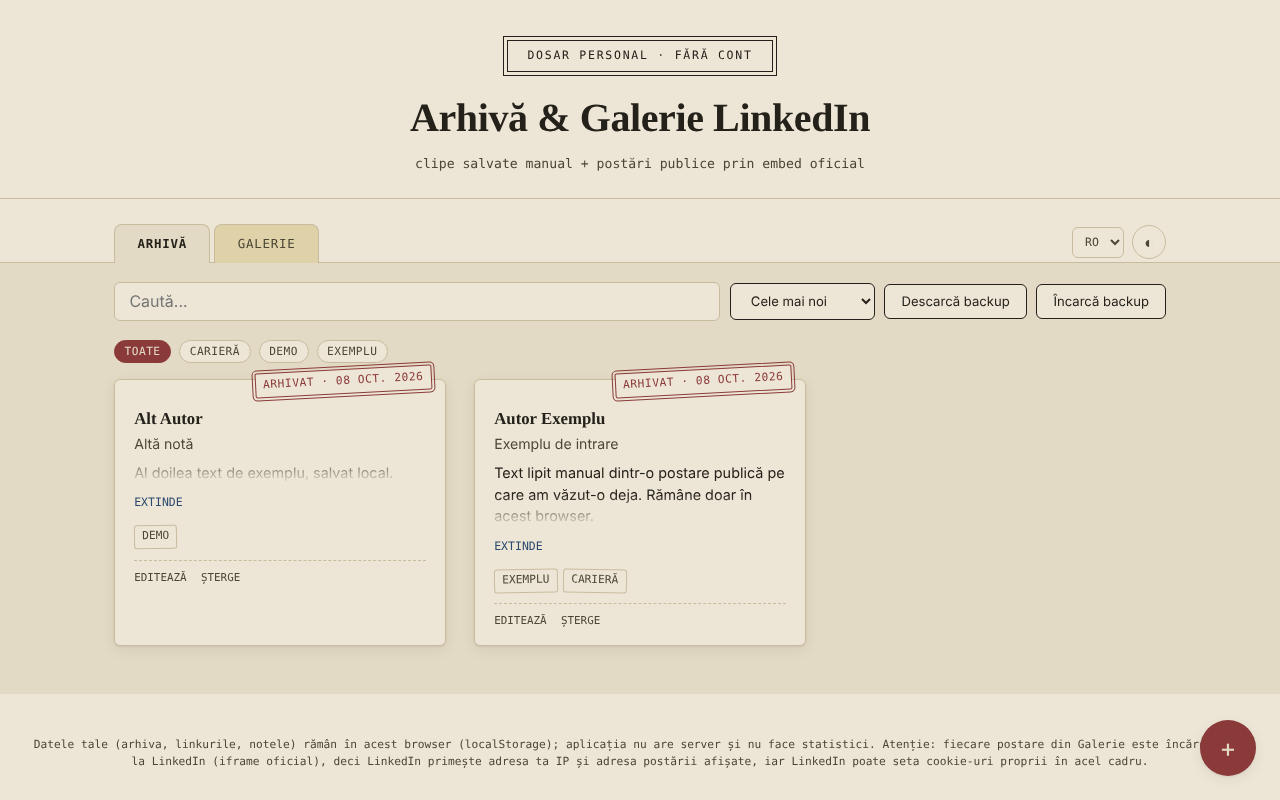
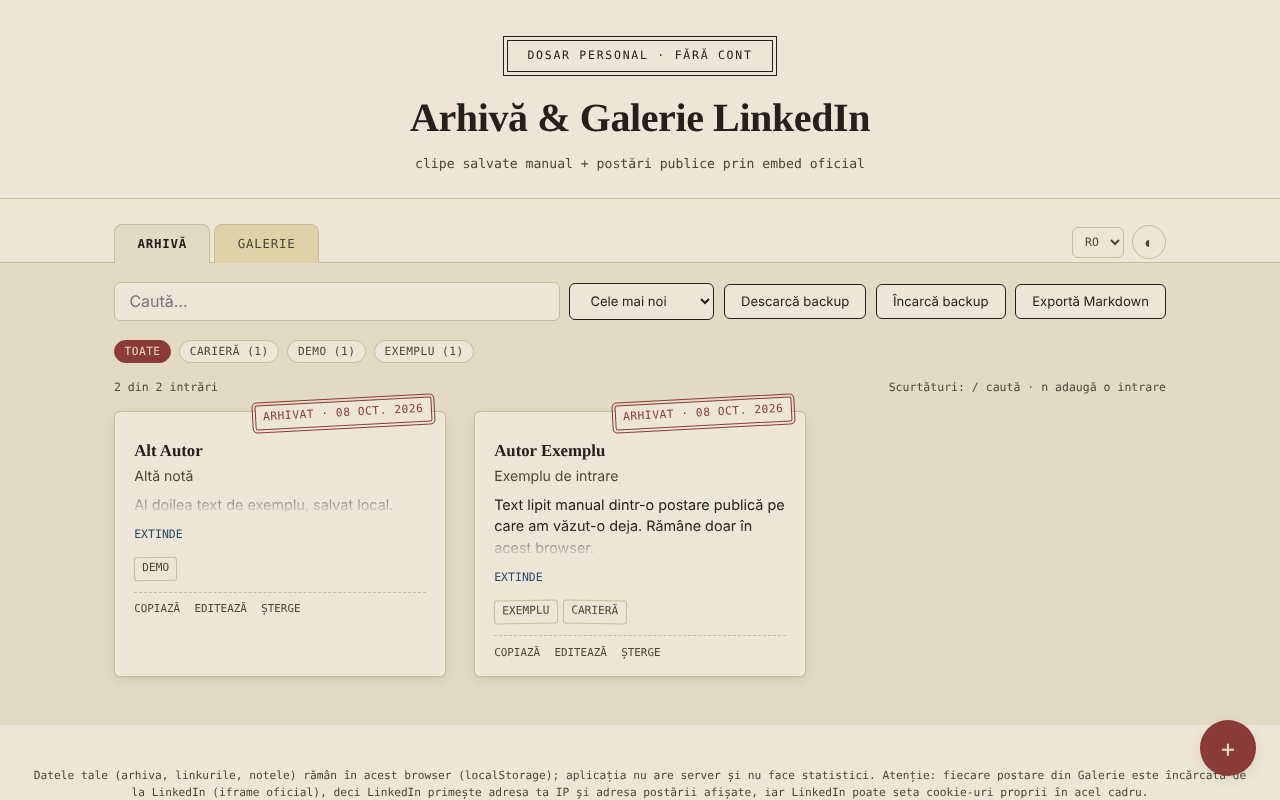
Runda 6 (11 octombrie 2026): reparații și îmbunătățiri
Claude-Session: https://claude.ai/code/session_01D2sCEb3hy3nutYexhUfQFs

diff --git a/index.html b/index.html
@@ -3,7 +3,7 @@
 <head>
 <meta charset="UTF-8">
 <meta name="viewport" content="width=device-width, initial-scale=1.0">
-<meta http-equiv="Content-Security-Policy" content="default-src 'none'; script-src 'unsafe-inline'; style-src 'unsafe-inline'; img-src data: blob:; frame-src https://www.linkedin.com; base-uri 'none'; form-action 'none'; connect-src 'none'">
+<meta http-equiv="Content-Security-Policy" content="default-src 'none'; script-src 'sha256-DzOzLiadDaBG+kV6SAGPXmhwMa2jPXG+iRZjb4KV/VU='; style-src 'unsafe-inline'; img-src data: blob:; frame-src https://www.linkedin.com; base-uri 'none'; form-action 'none'; connect-src 'none'">
 <meta name="referrer" content="strict-origin-when-cross-origin">
 <meta name="description" content="Arhivă personală de postări LinkedIn salvate manual și galerie de postări publice prin embed oficial LinkedIn. Datele rămân în browser; galeria încarcă conținut de la LinkedIn.">
 <title>Arhivă &amp; Galerie LinkedIn — clipe salvate fără cont</title>
@@ -95,6 +95,18 @@
   }
   .tag-chip.active { background: var(--stamp); border-color: var(--stamp); color: var(--paper-alt); }
 
+  .count-line { max-width: 1100px; margin: 0 auto; padding: 0 1.5rem .9rem; display: flex; flex-wrap: wrap; gap: .4rem 1.2rem; justify-content: space-between; font-family: var(--mono); font-size: .72rem; color: var(--ink-soft); }
+  .tag-chip .n { opacity: .75; margin-left: .25em; }
+  @media print {
+    .site-header .subtitle, .tabs, .toolbar, .tag-row, .count-line, .fab, .toast, .site-footer, .card-actions, .expand-btn { display: none !important; }
+    body { background: #fff; color: #000; }
+    .tab-content-wrap { background: #fff; border: none; }
+    .card-grid { display: block; padding: 0; }
+    .card { break-inside: avoid; box-shadow: none; border: 1px solid #999; margin: 0 0 1rem; background: #fff; }
+    .card-content { max-height: none !important; overflow: visible; }
+    .card-content::after { display: none !important; }
+    .embed-wrap { display: none; }
+  }
   .card-grid { max-width: 1100px; margin: 0 auto; padding: 0 1.5rem 3rem; display: grid; grid-template-columns: repeat(auto-fill, minmax(270px, 1fr)); gap: 1.75rem; }
   @media (max-width: 480px) { .card-grid { grid-template-columns: 1fr; } .site-header { padding: 1.8rem 1rem 1.2rem; } }
 
@@ -184,12 +196,15 @@
     <select id="sortSelect" class="btn secondary" data-i18n-aria-label="sortAriaLabel" aria-label="Sortează după dată">
       <option value="newest" data-i18n="sortNewest">Cele mai noi</option>
       <option value="oldest" data-i18n="sortOldest">Cele mai vechi</option>
+      <option value="author" data-i18n="sortAuthor">Autor A–Z</option>
     </select>
     <button class="btn secondary" id="exportBtn" data-i18n="exportBtn">Descarcă backup</button>
     <button class="btn secondary" id="importBtn" data-i18n="importBtn">Încarcă backup</button>
+    <button class="btn secondary" id="mdBtn" data-i18n="mdBtn">Exportă Markdown</button>
     <input type="file" id="importFile" accept="application/json" hidden>
   </div>
   <div class="tag-row" id="tagRow"></div>
+  <p class="count-line"><span id="countLine" role="status" aria-live="polite"></span><span class="kbd-hint" data-i18n="kbdHint">Scurtături: / caută · n adaugă o intrare</span></p>
   <div class="card-grid" id="cardGrid"></div>
   <div class="empty-state" id="emptyState" hidden></div>
 </div>
@@ -252,6 +267,16 @@
   var I18N = {
     ro: {
       locale: `ro-RO`,
+      countLine: `{n} din {m} intrări`,
+      mdBtn: `Exportă Markdown`,
+      toastMdDownloaded: `Markdown descărcat: {n} intrări.`,
+      toastMdEmpty: `Nu există intrări de exportat.`,
+      copyAction: `Copiază`,
+      toastCopied: `Copiat în clipboard.`,
+      toastCopyFail: `Nu am putut copia.`,
+      errorDuplicate: `Există deja o intrare cu acest link. Apasă din nou „{save}” pentru a o adăuga oricum.`,
+      kbdHint: `Scurtături: / caută · n adaugă o intrare`,
+      sortAuthor: `Autor A–Z`,
       plate: `Dosar personal · fără cont`,
       title: `Arhivă & Galerie LinkedIn`,
       subtitle: `clipe salvate manual + postări publice prin embed oficial`,
@@ -317,6 +342,16 @@
     },
     en: {
       locale: `en-GB`,
+      countLine: `{n} of {m} entries`,
+      mdBtn: `Export Markdown`,
+      toastMdDownloaded: `Markdown downloaded: {n} entries.`,
+      toastMdEmpty: `No entries to export.`,
+      copyAction: `Copy`,
+      toastCopied: `Copied to clipboard.`,
+      toastCopyFail: `Could not copy.`,
+      errorDuplicate: `An entry with this link already exists. Press “{save}” again to add it anyway.`,
+      kbdHint: `Shortcuts: / search · n add an entry`,
+      sortAuthor: `Author A–Z`,
       plate: `Personal file · no account needed`,
       title: `LinkedIn Archive & Gallery`,
       subtitle: `manually saved posts + public posts via official embed`,
@@ -382,6 +417,16 @@
     },
     fr: {
       locale: `fr-FR`,
+      countLine: `{n} sur {m} entrées`,
+      mdBtn: `Exporter en Markdown`,
+      toastMdDownloaded: `Markdown téléchargé : {n} entrées.`,
+      toastMdEmpty: `Aucune entrée à exporter.`,
+      copyAction: `Copier`,
+      toastCopied: `Copié dans le presse-papiers.`,
+      toastCopyFail: `Copie impossible.`,
+      errorDuplicate: `Une entrée avec ce lien existe déjà. Appuyez de nouveau sur « {save} » pour l’ajouter quand même.`,
+      kbdHint: `Raccourcis : / rechercher · n ajouter une entrée`,
+      sortAuthor: `Auteur A–Z`,
       plate: `Dossier personnel · sans compte`,
       title: `Archive & Galerie LinkedIn`,
       subtitle: `publications enregistrées manuellement + publications publiques via l'intégration officielle`,
@@ -447,6 +492,16 @@
     },
     it: {
       locale: `it-IT`,
+      countLine: `{n} di {m} voci`,
+      mdBtn: `Esporta Markdown`,
+      toastMdDownloaded: `Markdown scaricato: {n} voci.`,
+      toastMdEmpty: `Nessuna voce da esportare.`,
+      copyAction: `Copia`,
+      toastCopied: `Copiato negli appunti.`,
+      toastCopyFail: `Impossibile copiare.`,
+      errorDuplicate: `Esiste già una voce con questo link. Premi di nuovo «{save}» per aggiungerla comunque.`,
+      kbdHint: `Scorciatoie: / cerca · n aggiungi una voce`,
+      sortAuthor: `Autore A–Z`,
       plate: `Archivio personale · senza account`,
       title: `Archivio e Galleria LinkedIn`,
       subtitle: `post salvati manualmente + post pubblici tramite embed ufficiale`,
@@ -512,6 +567,16 @@
     },
     es: {
       locale: `es-ES`,
+      countLine: `{n} de {m} entradas`,
+      mdBtn: `Exportar Markdown`,
+      toastMdDownloaded: `Markdown descargado: {n} entradas.`,
+      toastMdEmpty: `No hay entradas para exportar.`,
+      copyAction: `Copiar`,
+      toastCopied: `Copiado al portapapeles.`,
+      toastCopyFail: `No se pudo copiar.`,
+      errorDuplicate: `Ya existe una entrada con este enlace. Pulsa de nuevo «{save}» para añadirla de todos modos.`,
+      kbdHint: `Atajos: / buscar · n añadir una entrada`,
+      sortAuthor: `Autor A–Z`,
       plate: `Archivo personal · sin cuenta`,
       title: `Archivo y Galería de LinkedIn`,
       subtitle: `publicaciones guardadas manualmente + publicaciones públicas mediante embed oficial`,
@@ -577,6 +642,16 @@
     },
     pt: {
       locale: `pt-PT`,
+      countLine: `{n} de {m} entradas`,
+      mdBtn: `Exportar Markdown`,
+      toastMdDownloaded: `Markdown transferido: {n} entradas.`,
+      toastMdEmpty: `Não há entradas para exportar.`,
+      copyAction: `Copiar`,
+      toastCopied: `Copiado para a área de transferência.`,
+      toastCopyFail: `Não foi possível copiar.`,
+      errorDuplicate: `Já existe uma entrada com esta ligação. Prima novamente «{save}» para a adicionar mesmo assim.`,
+      kbdHint: `Atalhos: / pesquisar · n adicionar uma entrada`,
+      sortAuthor: `Autor A–Z`,
       plate: `Arquivo pessoal · sem conta`,
       title: `Arquivo e Galeria do LinkedIn`,
       subtitle: `publicações guardadas manualmente + publicações públicas via embed oficial`,
@@ -642,6 +717,16 @@
     },
     de: {
       locale: `de-DE`,
+      countLine: `{n} von {m} Einträgen`,
+      mdBtn: `Markdown exportieren`,
+      toastMdDownloaded: `Markdown heruntergeladen: {n} Einträge.`,
+      toastMdEmpty: `Keine Einträge zum Exportieren.`,
+      copyAction: `Kopieren`,
+      toastCopied: `In die Zwischenablage kopiert.`,
+      toastCopyFail: `Kopieren nicht möglich.`,
+      errorDuplicate: `Ein Eintrag mit diesem Link existiert bereits. Drücke erneut „{save}“, um ihn trotzdem hinzuzufügen.`,
+      kbdHint: `Tastenkürzel: / Suche · n Eintrag hinzufügen`,
+      sortAuthor: `Autor A–Z`,
       plate: `Persönliche Ablage · ohne Konto`,
       title: `LinkedIn-Archiv & Galerie`,
       subtitle: `manuell gespeicherte Beiträge + öffentliche Beiträge per offiziellem Embed`,
@@ -900,6 +985,9 @@
       out = out.filter(function (item) { return (item.tags || []).indexOf(state.activeTag) !== -1; });
     }
     out.sort(function (a, b) {
+      if (state.sort === 'author') {
+        return fold(a.author || a.note || '').localeCompare(fold(b.author || b.note || ''), state.lang) || (new Date(b.dateAdded).getTime() - new Date(a.dateAdded).getTime());
+      }
       var da = new Date(a.dateAdded).getTime();
       var db = new Date(b.dateAdded).getTime();
       return state.sort === 'newest' ? db - da : da - db;
@@ -932,7 +1020,8 @@
     tags.forEach(function (tag) {
       var chip = document.createElement('button');
       chip.className = 'tag-chip' + (state.activeTag === tag ? ' active' : '');
-      chip.textContent = tag;
+      var cnt = list.filter(function (it) { return (it.tags || []).indexOf(tag) !== -1; }).length;
+      chip.textContent = tag + ' (' + cnt + ')';
       chip.addEventListener('click', function () { state.activeTag = (state.activeTag === tag ? null : tag); render(); });
       row.appendChild(chip);
     });
@@ -944,6 +1033,7 @@
     var list = state.activeTab === 'archive' ? state.archive : state.gallery;
     var filtered = getFilteredSorted(list);
     grid.innerHTML = '';
+    document.getElementById('countLine').textContent = list.length ? t('countLine').replace('{n}', filtered.length).replace('{m}', list.length) : '';
 
     if (!list.length) {
       emptyState.hidden = false; grid.hidden = true;
@@ -975,6 +1065,7 @@
           '<button class="expand-btn" data-id="' + escapeHtml(item.id) + '">' + escapeHtml(t('expand')) + '</button>' +
           '<div class="card-tags">' + tagsHtml + '</div>' +
           '<div class="card-actions">' + originalLink +
+            '<button data-action="copy" data-id="' + escapeHtml(item.id) + '">' + escapeHtml(t('copyAction')) + '</button>' +
             '<button data-action="edit" data-id="' + escapeHtml(item.id) + '">' + escapeHtml(t('editAction')) + '</button>' +
             '<button data-action="delete" data-id="' + escapeHtml(item.id) + '">' + escapeHtml(t('deleteAction')) + '</button>' +
           '</div>';
@@ -1005,6 +1096,7 @@
     var actionBtn = e.target.closest('[data-action]');
     if (!actionBtn) return;
     var id = actionBtn.dataset.id;
+    if (actionBtn.dataset.action === 'copy') copyEntry(id);
     if (actionBtn.dataset.action === 'edit') openEditDialog(id);
     if (actionBtn.dataset.action === 'delete') openConfirmDelete(id);
   });
@@ -1045,7 +1137,7 @@
   var entryForm = document.getElementById('entryForm');
   var formError = document.getElementById('formError');
 
-  function resetForm() { entryForm.reset(); formError.hidden = true; state.editingId = null; }
+  function resetForm() { entryForm.reset(); formError.hidden = true; state.editingId = null; state.dupOk = null; }
 
   function openAddDialog() {
     resetForm();
@@ -1089,6 +1181,10 @@
     if (state.activeTab === 'archive') {
       var content = document.getElementById('f-content').value.trim();
       if (!content) { formError.textContent = t('errorContentRequired'); formError.hidden = false; document.getElementById('f-content').focus(); return; }
+      var urlA = safeHttpUrl(document.getElementById('f-url').value.trim());
+      if (urlA && state.dupOk !== urlA && state.archive.some(function (x) { return x.url === urlA && x.id !== state.editingId; })) {
+        state.dupOk = urlA; formError.textContent = t('errorDuplicate').replace('{save}', t('saveBtn')); formError.hidden = false; return;
+      }
       var existingA = state.editingId ? state.archive.find(function (x) { return x.id === state.editingId; }) : null;
       var entryA = {
         id: state.editingId || generateId(),
@@ -1113,6 +1209,9 @@
         formError.textContent = t('errorInvalidEmbed');
         formError.hidden = false;
         return;
+      }
+      if (state.dupOk !== embedSrc && state.gallery.some(function (x) { return x.embedSrc === embedSrc && x.id !== state.editingId; })) {
+        state.dupOk = embedSrc; formError.textContent = t('errorDuplicate').replace('{save}', t('saveBtn')); formError.hidden = false; return;
       }
       var existingG = state.editingId ? state.gallery.find(function (x) { return x.id === state.editingId; }) : null;
       var entryG = {
@@ -1198,6 +1297,70 @@
     reader.onerror = function () { showToast(t('toastImportFail')); };
     reader.readAsText(file);
     e.target.value = '';
+  });
+
+  // ---------- copy entry / Markdown export / shortcuts ----------
+  function entryAsText(item) {
+    var parts = [];
+    if (item.author) parts.push(item.author);
+    if (item.title) parts.push(item.title);
+    if (item.content) parts.push(item.content);
+    if (item.url) parts.push(item.url);
+    return parts.join('\n\n');
+  }
+  function copyText(text) {
+    function fallback() {
+      var ta = document.createElement('textarea');
+      ta.value = text; ta.setAttribute('readonly', ''); ta.style.position = 'fixed'; ta.style.opacity = '0';
+      document.body.appendChild(ta); ta.select();
+      var ok = false; try { ok = document.execCommand('copy'); } catch (e) {}
+      ta.remove();
+      showToast(t(ok ? 'toastCopied' : 'toastCopyFail'));
+    }
+    if (navigator.clipboard && navigator.clipboard.writeText) {
+      navigator.clipboard.writeText(text).then(function () { showToast(t('toastCopied')); }, fallback);
+    } else { fallback(); }
+  }
+  function copyEntry(id) {
+    var item = state.archive.find(function (x) { return x.id === id; });
+    if (item) copyText(entryAsText(item));
+  }
+  function mdLine(x) { return String(x || '').replace(/\r?\n/g, ' ').trim(); }
+  function buildMarkdown(list, type) {
+    var out = ['# ' + t('title'), ''];
+    list.forEach(function (item) {
+      var head = type === 'archive' ? (item.author || t('authorUnknown')) + (item.title ? ' — ' + item.title : '') : (item.note || item.url || item.embedSrc);
+      out.push('## ' + mdLine(head), '');
+      var meta = [];
+      if (item.datePosted) meta.push(item.datePosted);
+      meta.push(item.dateAdded.slice(0, 10));
+      out.push('*' + meta.join(' · ') + '*', '');
+      if (type === 'archive') out.push(String(item.content).split('\n').map(function (l) { return '> ' + l; }).join('\n'), '');
+      var link = item.url || (type === 'gallery' ? item.embedSrc : '');
+      if (link) out.push('<' + link + '>', '');
+      if (item.tags && item.tags.length) out.push(item.tags.map(function (g) { return '`' + g.replace(/`/g, "'") + '`'; }).join(' '), '');
+    });
+    return out.join('\n');
+  }
+  document.getElementById('mdBtn').addEventListener('click', function () {
+    var type = state.activeTab;
+    var list = getFilteredSorted(state[type]);
+    if (!list.length) { showToast(t('toastMdEmpty')); return; }
+    var blob = new Blob([buildMarkdown(list, type)], { type: 'text/markdown;charset=utf-8' });
+    var a = document.createElement('a');
+    a.href = URL.createObjectURL(blob);
+    a.download = 'arhiva-linkedin-' + type + '-' + new Date().toISOString().slice(0, 10) + '.md';
+    document.body.appendChild(a); a.click(); a.remove();
+    setTimeout(function () { URL.revokeObjectURL(a.href); }, 1500);
+    showToast(t('toastMdDownloaded').replace('{n}', list.length));
+  });
+  document.addEventListener('keydown', function (e) {
+    if (e.ctrlKey || e.metaKey || e.altKey || e.defaultPrevented) return;
+    if (document.querySelector('dialog[open]')) return;
+    var tag = (e.target && e.target.tagName || '').toLowerCase();
+    if (tag === 'input' || tag === 'textarea' || tag === 'select' || (e.target && e.target.isContentEditable)) return;
+    if (e.key === '/') { e.preventDefault(); document.getElementById('searchInput').focus(); }
+    else if (e.key === 'n' || e.key === 'N') { e.preventDefault(); openAddDialog(); }
   });
 
   // ---------- init ----------

diff --git a/README.md b/README.md
@@ -19,6 +19,11 @@ Două file: **Arhivă** (text, autor, link, tag-uri, lipite de tine din postări
 Verificate în cod:
 - Adăugare / editare / ștergere (cu confirmare) de intrări, în ambele file; tag-uri, filtrare după tag, căutare (fără diacritice și majuscule), sortare după dată.
 - Galerie: acceptă codul iframe „Embed this post", un URN `urn:li:activity|share:…` sau un link de postare cu `-activity-<număr>-`; construiește adresa `https://www.linkedin.com/embed/feed/update/...`; adresele de alte domenii sunt respinse.
+- Contor „N din M intrări”, număr de intrări pe fiecare tag, sortare și după autor (A–Z).
+- Export Markdown al listei filtrate din fila activă; buton „Copiază” pe intrările din Arhivă (text, titlu, link).
+- Avertisment la salvarea unui link deja existent (se poate salva oricum la a doua apăsare).
+- Scurtături de tastatură: `/` pentru căutare, `n` pentru o intrare nouă (când focusul nu este într-un câmp de text).
+- Stil de tipărire: se tipăresc doar cardurile Arhivei, fără bară de instrumente.
 - Backup JSON (descărcare/încărcare); la import intrările sunt validate și cele cu `id` deja existent sunt ignorate.
 - Temă deschisă/întunecată, 7 limbi (RO, EN, FR, IT, ES, PT, DE).
 
@@ -49,6 +54,11 @@ Descarcă `index.html` și deschide-l în browser. Fila Arhivă funcționează c
 
 ## Istoric / Changelog
 
+### 11 octombrie 2026 (a doua intrare)
+- Politica CSP: `script-src` cu hash în loc de `'unsafe-inline'` (aplicația nu avea atribute `on*` inline).
+- Funcții noi: export Markdown, copiere intrare, contor și numărători pe tag-uri, sortare după autor, avertisment pentru linkuri duplicate, scurtături de tastatură, stil de tipărire; textele noi sunt traduse în toate cele 7 limbi.
+- Captura de ecran actualizată (butonul „Exportă Markdown”, contorul și acțiunea „Copiază”).
+
 ### 11 octombrie 2026
 - Accesibilitate: conținutul principal este încadrat în <main> (axe: 0 violări).
 - Salvarea unei intrări goale afișează acum mesajul de eroare ca alertă anunțată de cititoarele de ecran și mută focusul în câmpul „Conținut”.
@@ -63,4 +73,4 @@ Alexio — Alexandru-Ionuț Chiuță, contact: alexio@trom.tf
 
 ## English summary
 
-A single-file, unofficial notebook for LinkedIn posts: an Archive tab for text you paste manually, and a Gallery tab that shows public posts through LinkedIn's official embed iframe. It does not scrape LinkedIn or use its API. Data is kept in localStorage; the Gallery contacts www.linkedin.com (which sees your IP and the post address). 7 UI languages, JSON backup. License not yet declared.
+A single-file, unofficial notebook for LinkedIn posts: an Archive tab for text you paste manually, and a Gallery tab that shows public posts through LinkedIn's official embed iframe. It does not scrape LinkedIn or use its API. Data is kept in localStorage; the Gallery contacts www.linkedin.com (which sees your IP and the post address). 7 UI languages, JSON backup, Markdown export, copy-entry, duplicate-link warning, keyboard shortcuts (/ and n), print stylesheet. License not yet declared.
